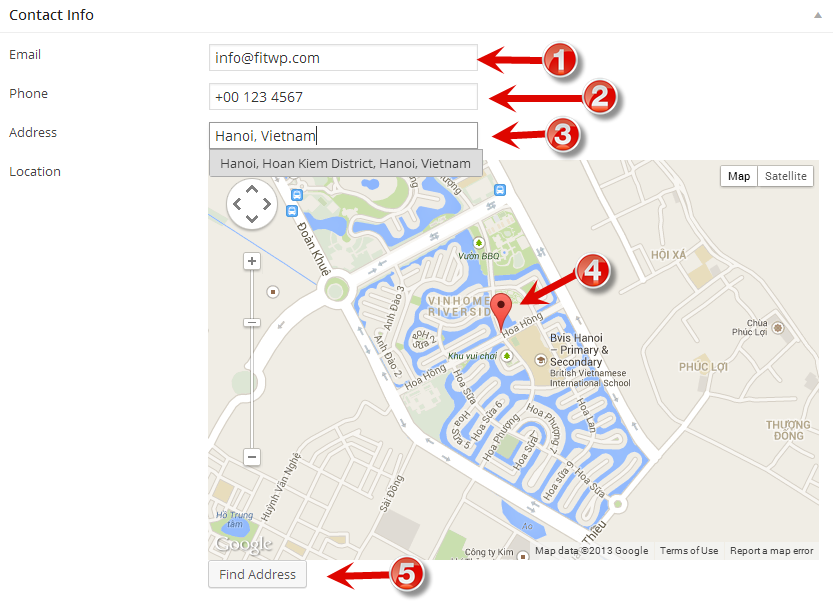
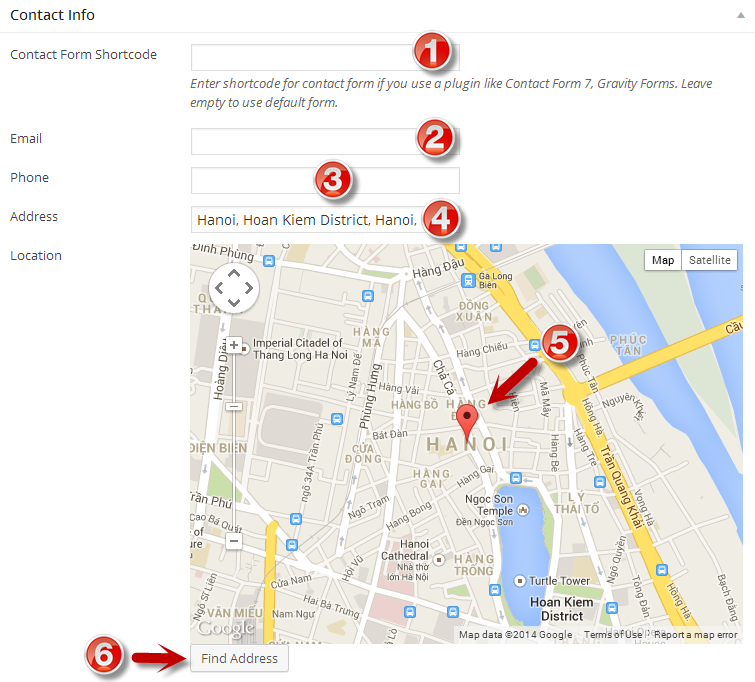
Update

diff --git a/whisper/index.html b/whisper/index.html
@@ -36,7 +36,7 @@ Theme Information
 =================
 
 - **Theme Name:** Whisper WordPress Theme
-- **Version:** 1.0
+- **Version:** 1.1
 - **Theme URL:** [http://fitwp.com/themes/whisper/](http://fitwp.com/themes/whisper/)
 - **Author:** FitWP
 - **Author Website:** [FitWP](http://fitwp.com)
@@ -432,9 +432,17 @@ This sections contains:
 
 **(2)**: logo size. Specify logo size in **px** here. It will help you resize the logo to correct dimensions. By default, the good size is **201x39**.
 
+**(3)**: logo margin. Specify logo margin in **px** here. This is useful when you upload logo with different size than recommended. You can *move* logo a little, adjust space to make it look good.
+
 <div class="alert alert-info">You should **resize the logo to correct size** in Photoshop or any image editor before upload. It will keep your logo not resized and small size.</div>
 
-**(3)**: header scripts. Enter scripts or code you would like output to `&lt;head&gt;`. It can be:
+**(4)**: header sidebar position. Since version 1.1, you can add more content to the header right space(above or below main navigation). The content is added using widgets. This option allows you to put those widgets allow or below main navigation.
+
+<div class="alert alert-info">Please go to **Appearance \ Widgets** to add widgets to **Header Right** sidebar.</div>
+
+**(5)**: sticky header. This option allow you to make the header sticky, i.e. always stays on the top of the website when scrolling.
+
+**(6)**: header scripts. Enter scripts or code you would like output to `&lt;head&gt;`. It can be:
 
 - `<link>` tag for custom font (from Google Fonts maybe)
 - Any meta tag: to show the designer, copyright, etc. in meta tag
@@ -714,6 +722,7 @@ Whisper has some build-in page templates that can help you create special pages 
 - **Blog**: template to display blog posts
 - **Blox Boxes**: display blog posts in boxed style
 - **Contact**: template for contact page
+- **Contact Without Map**: template for contact page but without Google Maps
 - **Portfolio**: display portfolios
 - **Portfolio Hexagon**: display portfolios in creative hexagon style
 
@@ -721,7 +730,9 @@ When you edit a page, look at on the right, find **Page Attributes** meta box an
 
 ![page-templates](http://fitwp.github.io/docs/whisper/page-templates.png)
 
-View the page to see result!
+For **Blog**, **Blog Boxes**, **Portfolio**, **Portfolio Hexagon**, there's no configurations at all. After select page template from the meta box on the right, you just need to save the page and see it in action in the frontend.
+
+For **Contact** and **Contact Without Map**, there're some options as below.
 
 
 
@@ -732,19 +743,30 @@ There is a special case for contact page. When you select **Contact** from the *
 
 ![contact](http://fitwp.github.io/docs/whisper/contact.png)
 
-**(1)**: your contact email
+**(1)**: contact form shortcode. If you don't want to use default contact form (maybe you need more information from users like Country, Postcode, etc.), you can use a form plugin like Contact Form 7 or Ninja Forms, Gravity Forms. Those plugins provide shortcode for each form, and you just need to paste the shortcode into this field.
 
-**(2)**: your phone number
+**(2)**: your contact email
 
-**(3)**: your address. When you enter the address in the text field, you'll see a list of suggested address that Google Maps found. Simply select one of them, then the map will show the correct area.
+**(3)**: your phone number
+
+**(4)**: your address. When you enter the address in the text field, you'll see a list of suggested address that Google Maps found. Simply select one of them, then the map will show the correct area.
 
 If you don't see your address in the suggested list, click the **Find Address** button **(5)**, Google Maps will try its geolocation service to find your address on the map.
 
-**(4)**: when the map displays correct area, you can drag, zoom the map to find your exact location. Then **click** on the map to place a marker. You then can also drag and drop the marker to another location if you want.
+**(5)**: when the map displays correct area, you can drag, zoom the map to find your exact location. Then **click** on the map to place a marker. You then can also **drag and drop** the marker to another location if you want.
 
-**(5)**: search for your location in case you don't see list of suggested location from Google Maps.
+**(6)**: search for your location in case you don't see list of suggested location from Google Maps.
 
 When you entered all information, save the page and see it in the frontend.
+
+**Note**: You also should enter page content in the editor, this content will be display on the Contact Page as well.
+
+
+
+Contact Page Without Map
+------------------------
+
+This page template is similar to Contact Page above and has same options. The difference is there's no Google Maps on this page, and thus no options for maps.
 
 
 
@@ -1243,8 +1265,8 @@ Icon box is a way of displaying main information in a "box", which is usually us
 **Attributes:**
 
 ```
-[icon_box type="big" title="Configure" icon="serviceicon-tools"]Lorem ipsum dolor sit amet.[/icon_box]
-[icon_box type="hex" title="Support" icon="serviceicon-group"]Lorem ipsum dolor sit amet.[/icon_box]
+[icon_box type="big" url="http://google.com" title="Configure" icon="serviceicon-tools"]Lorem ipsum dolor sit amet.[/icon_box]
+[icon_box type="hex" url="http://google.com" title="Support" icon="serviceicon-group"]Lorem ipsum dolor sit amet.[/icon_box]
 [icon_box type="small" title="Design" icon="serviceicon-brush"]Lorem ipsum dolor sit amet.
 
 <a class="more-link" href="#">Continue reading <span>&gt;</span></a>[/icon_box]
@@ -1253,6 +1275,7 @@ Icon box is a way of displaying main information in a "box", which is usually us
 - `type`: `big`, `hex`, `small`, `simple`. Type of icon box. See demo to know how they look like.
 - `title`: icon box title (heading)
 - `icon`: icon class. Same as for icon shortcode above. Just pick from the popup, or manually enter it if you remember ;)
+- `url`: URL that the icon box links to. This parameter is **not** available for `small` type.
 
 <div class="alert">You always **can** enter HTML into shortcode content. In the 3rd example above, you see how we used a link with class `more-link` and a `span` tag inside it to make a beautiful readmore link.</div>
 
